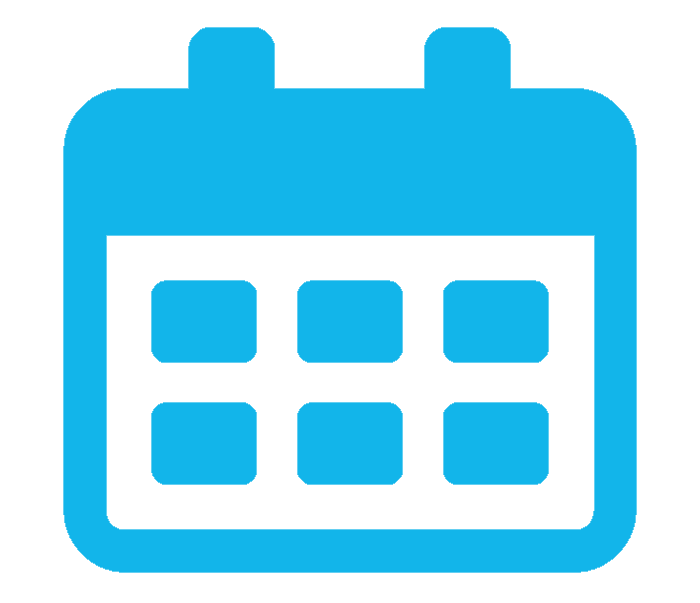
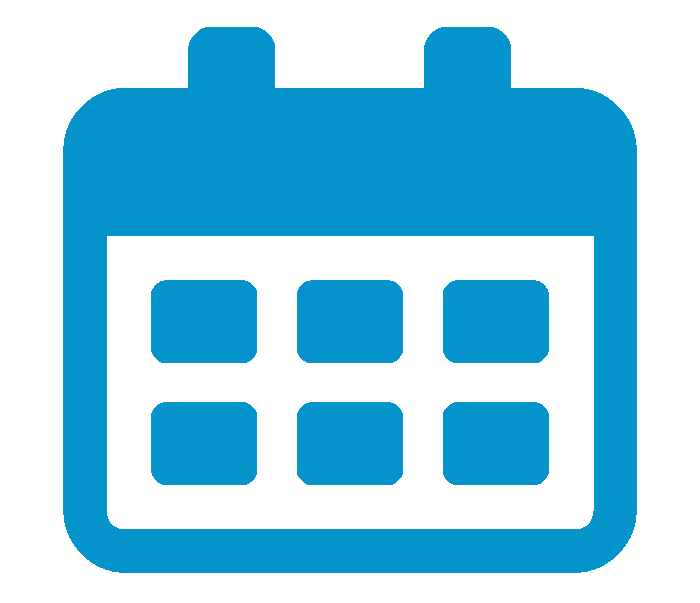
v4 UI updates

diff --git a/client/index.html b/client/index.html
@@ -8,6 +8,8 @@
     <!-- CS Fonts -->
     <link href="https://fonts.googleapis.com/css2?family=Raleway:ital,wght@0,400;0,900;1,400;1,900&display=swap"
         rel="stylesheet">
+    <link href="https://fonts.googleapis.com/css2?family=Asap Condensed:ital,wght@0,400;0,900;1,400;1,900&display=swap"
+    rel="stylesheet">
     <link rel="stylesheet" href="style.css">
     <link rel="icon" href="../assets/favicon.png" type="image/x-icon">
 </head>
@@ -15,21 +17,21 @@
 <body>
     <form name="submitToGoogleSheet" id="formInput">
         <div class="gridContainer">
-            <div class="pageHeader">
-                <!-- <h1 style="font-size:40px; display: inline-block;">30 Day Target Move-In Date Calculator</h1> -->
+            <!-- <div class="pageHeader">
+                <h1 style="font-size:40px; display: inline-block;">30 Day Target Move-In Date Calculator</h1>
                 <p style="font-size: 16px;"> Setting a Target Move-In Date Goal can bring new focus and clarity to the way that you work with clients every week. 
                     At the end of your case conferencing meeting, consistently check how many target move-in dates your team has set for the next 30 days. Are you on track to 
-                    house enough people to reduce your by-name list? This goal calculator will help you know.
+                    house enough people to reduce your actively homeless number? This goal calculator will help you know.
                 </p>
                 <p style="background-color: rgba(184, 184, 184, 0.178); padding: 1%;">
-                    <b>HOW TO USE THIS TOOL: </b>It takes a lot of work to reduce your by-name list. This tool helps you focus on just one part, your housing placements. 
+                    <b>HOW TO USE THIS TOOL: </b>It takes a lot of work to reduce your actively homeless number. This tool helps you focus on just one part, your housing placements. 
                     Use the <a href="https://docs.google.com/document/d/11QEc_Yd7us2gqvrVhqg1Y2LvnraLX3j8FyFzgTvXo3s/edit">Target Move-In Dates Guide</a> along with this tool to ensure that your team is on track to house people at your desired rate.
                     <br><br>
                     This tool helps your case conferencing team set target move-in dates so that you can house people faster; it is not a forecasting tool. 
                     If your inflow or outflow rates change over the coming months, your actively homeless count will fluctuate. Give attention to your entire system! 
-                    Reducing your by-name list requires accelerating your housing placements, yes, and also taking action to intentionally reduce people entering your system.
+                    Reducing your actively homeless number requires accelerating your housing placements, yes, and also taking action to intentionally reduce people entering your system.
                 </p>
-            </div>
+            </div> -->
             <div class="goalInputs">
                 <div class="communityDetails">
                     <h2>COMMUNITY & POPULATION</h2>
@@ -128,11 +130,11 @@
                 <p style="display: none; font-size: 24px; padding: 2% 10%; text-align: left;" id="goalMet"></p>
                 <div style="display: none;" id="goal">
                     <p id="newGoal"> Increase monthly housing placements from<br>
-                        <span style="font-weight: bold; color:#12b5ea;" id="currentTargetHousingRate"></span> to
-                        <span style="font-weight: bold; color:#12b5ea;" id="goalTargetHousingRate"></span> people per month
+                        <span style="font-family: 'Asap Condensed'; font-weight: bold; color:#0494CB;" id="currentTargetHousingRate"></span> to
+                        <span style="font-family: 'Asap Condensed'; font-weight: bold; color:#0494CB;" id="goalTargetHousingRate"></span> people per month
                     </p>
                     <p style="font-size: 15px;" id="goalTargetExplanation">In order to reach your goal, you should set at least 
-                        <span style="font-weight: bold; color: #12b5ea;" id="goalTargetHousingRate2"></span> target move-in dates for the next 30 days.</span>
+                        <span style="font-family: 'Asap Condensed'; font-weight: bold; color: #0494CB;" id="goalTargetHousingRate2"></span> target move-in dates for the next 30 days.</span>
                     </p>
                     <p style="font-size: 15px; text-align: left;" id="goalAction"><b>How to take action: </b>Check your by-name list. Do you have enough target move-in dates set for this month? 
                         If not, go back through the list with an open mind and look for creative ideas to move some clients through your housing process faster.
@@ -146,67 +148,67 @@
                 </div>
                 <div class="paramNumMonths">
                     <img src="../assets/noun_month_3202614.png">
-                    <p id="paramNumMonths" style="font-size: 30px; font-weight: bold; color: #12b5ea; margin: 0%;"></p>
-                    <p style="color: #12b5ea; margin-top: 0%;">month(s) to reach your target</p>
+                    <p id="paramNumMonths" style="font-size: 30px; margin: 0%;"></p>
+                    <p style="margin-top: 0%;">month(s) to reach your target</p>
                 </div>
                 <div class="paramTargetNetChange">
                     <img src="../assets/noun_people_3457286.png">
-                    <p id="paramTargetNetChange" style="font-size: 30px; font-weight: bold; color: #12b5ea; margin: 0%;"></p>
-                    <p style="color: #12b5ea; margin-top: 0%;">person reduction</p>
+                    <p id="paramTargetNetChange" style="font-size: 30px; margin: 0%;"></p>
+                    <p style="margin-top: 0%;">person reduction</p>
                 </div>
                 <div class="explanation1">
                     <p >To reduce your active list by
-                        <span style="font-size: 20px; font-weight:bold; color:#12b5ea;" id="explanationTargetNetChange"></span> people in 
-                        <span style="font-size: 20px; font-weight:bold; color:#12b5ea;" id="explanationNumMonths"></span> month(s), you will need to reduce your Actively Homeless Number by 
-                        <span style="font-size: 20px; font-weight:bold; color:#12b5ea;" id="explanationTargetNetChangeRate"></span> people per month. 
+                        <span style="font-weight:bold; color:#0494CB;" id="explanationTargetNetChange"></span> people in 
+                        <span style="font-weight:bold; color:#0494CB;" id="explanationNumMonths"></span> month(s), you will need to reduce your Actively Homeless Number by 
+                        <span style="font-weight:bold; color:#0494CB;" id="explanationTargetNetChangeRate"></span> people per month. 
                     </p>
-                    <p style="color:#12b5ea;">
-                        <span style="font-size: 20px; font-weight:bold;" id="equationTargetNetChange"></span> people / 
-                        <span style="font-size: 20px; font-weight:bold;" id="equationNumMonths"></span> month(s) = 
-                        <span style="font-size: 20px; font-weight:bold;" id="equationTargetNetChangeRate"></span> person monthly reduction
+                    <p style="color:#0494CB;">
+                        <span style="font-weight:bold;" id="equationTargetNetChange"></span> people / 
+                        <span style="font-weight:bold;" id="equationNumMonths"></span> month(s) = 
+                        <span style="font-weight:bold;" id="equationTargetNetChangeRate"></span> person monthly reduction
                     </p>
                 </div>
                 <div class="paramAvgInflow">
                     <img src="../assets/noun_homeless_3418188.png">
-                    <p id="paramAvgInflow" style="font-size: 30px; font-weight: bold; color: #12b5ea; margin: 0%;"></p>
-                    <p style="color: #12b5ea; margin-top: 0%;">average total monthly inflow</p>
+                    <p id="paramAvgInflow" style="font-size: 30px; margin: 0%;"></p>
+                    <p style="margin-top: 0%;">average total monthly inflow</p>
                 </div>
                 <div class="explanation2" id="explanation2">
                     <p>Assuming 
-                        <span style="font-size: 20px; font-weight:bold; color: #12b5ea;" id="explanationAvgInflow"></span> people join your list each month, you will need  
-                        <span style="font-size: 20px; font-weight:bold; color:#12b5ea" id="explanationTargetOutflowRate"></span> people to move off your list each month. 
+                        <span style="font-weight:bold; color: #0494CB;" id="explanationAvgInflow"></span> people join your list each month, you will need  
+                        <span style="font-weight:bold; color:#0494CB;" id="explanationTargetOutflowRate"></span> people to move off your list each month. 
                     </p>
-                    <p style="color:#12b5ea;">
-                        <span style="font-size: 20px; font-weight:bold;" id="equationTargetNetChangeRate2"></span> person monthly reduction + 
-                        <span style="font-size: 20px; font-weight:bold;" id="equationAvgInflow"></span> person monthly inflow = 
-                        <span style="font-size: 20px; font-weight:bold;" id="equationTargetOutflowRate"></span> person monthly outflow needed
+                    <p style="color:#0494CB;">
+                        <span style="font-weight:bold;" id="equationTargetNetChangeRate2"></span> person monthly reduction + 
+                        <span style="font-weight:bold;" id="equationAvgInflow"></span> person monthly inflow = 
+                        <span style="font-weight:bold;" id="equationTargetOutflowRate"></span> person monthly outflow needed
                     </p>
                 </div>
                 <div class="paramAvgOutflow">
                     <img src="../assets/noun_exit_2590544.png">
-                    <p id="paramAvgOutflow" style="font-size: 30px; font-weight: bold; color: #12b5ea; margin: 0%;"></p>
-                    <p style="color: #12b5ea; margin-top: 0%;">average total monthly outflow</p>
+                    <p id="paramAvgOutflow" style="font-size: 30px; margin: 0%;"></p>
+                    <p style="margin-top: 0%;">average total monthly outflow</p>
                 </div>
                 <div class="paramAvgHoused">
                     <img src="../assets/noun_Home_680045.png">
-                    <p id="paramAvgHoused" style="font-size: 30px; font-weight: bold; color: #12b5ea; margin: 0%;"></p>
-                    <p style="color: #12b5ea; margin-top: 0%;">average monthly housing placements</p>
+                    <p id="paramAvgHoused" style="font-size: 30px; margin: 0%;"></p>
+                    <p style="margin-top: 0%;">average monthly housing placements</p>
                 </div>
                 <div class="explanation3" id="explanation3">
                     <p>Assuming 
-                        <span style="font-size: 20px; font-weight:bold; color: #12b5ea;" id="explanationAvgTotalOutflow"></span> people are currently moving off the list each month, 
-                        <span style="font-size: 20px; font-weight:bold; color: #12b5ea;" id="explanationAvgHoused"></span> due to moving into housing and 
-                        <span style="font-size: 20px; font-weight:bold; color: #12b5ea;" id="explanationOtherOutflow"></span> due to other outflow, you can increase your monthly housing placements to 
-                        <span style="font-size: 20px; font-weight:bold; color: #12b5ea;" id="explanationTargetHousingRate"></span> people per month to reach your goal. 
+                        <span style="font-weight:bold; color: #0494CB;" id="explanationAvgTotalOutflow"></span> people are currently moving off the list each month, 
+                        <span style="font-weight:bold; color: #0494CB;" id="explanationAvgHoused"></span> due to moving into housing and 
+                        <span style="font-weight:bold; color: #0494CB;" id="explanationOtherOutflow"></span> due to other outflow, you can increase your monthly housing placements to 
+                        <span style="font-weight:bold; color: #0494CB;" id="explanationTargetHousingRate"></span> people per month to reach your goal. 
                     </p>
-                    <p style="color:#12b5ea;">
-                        <span style="font-size: 20px; font-weight: bold; color: #12b5ea;" id="equationAvgTotalOutflow"></span> person total outflow - 
-                        <span style="font-size: 20px; font-weight: bold; color: #12b5ea;" id="equationAvgHoused"></span> current monthly housing placements = 
-                        <span style="font-size: 20px; font-weight: bold; color: #12b5ea" id="equationOtherOutflow";></span> person monthly other outflow
+                    <p style="color:#0494CB;">
+                        <span style="font-weight: bold;" id="equationAvgTotalOutflow"></span> person total outflow - 
+                        <span style="font-weight: bold;" id="equationAvgHoused"></span> current monthly housing placements = 
+                        <span style="font-weight: bold;" id="equationOtherOutflow";></span> person monthly other outflow
                         <br><br>
-                        <span style="font-size: 20px; font-weight:bold; color:#12b5ea;" id="equationTargetOutflowRate2"></span> person monthly outflow needed - 
-                        <span style="font-size: 20px; font-weight:bold; color: #12b5ea;" id="equationOtherOutflow2"></span> person monthly other outflow = 
-                        <span style="font-size: 20px; font-weight:bold; color:#12b5ea;" id="equationTargetHousingRate"></span> monthly housing placements needed
+                        <span style="font-weight:bold;" id="equationTargetOutflowRate2"></span> person monthly outflow needed - 
+                        <span style="font-weight:bold;" id="equationOtherOutflow2"></span> person monthly other outflow = 
+                        <span style="font-weight:bold;" id="equationTargetHousingRate"></span> monthly housing placements needed
                     </p>
                 </div>
                 <div class="note" style="font-size: 15px;">

diff --git a/client/style.css b/client/style.css
@@ -14,6 +14,7 @@ body {
   margin: 1% 5% 5% 2%;
 }
 h2 {
+  font-family: "Asap Condensed";
   font-size: 26px;
   font-weight: 800;
 }
@@ -134,7 +135,7 @@ h2 {
     grid-row: 12;
     font-size: 26px;
     text-align: center;
-    border: thick solid #12b5ea;
+    border: thick solid #0494CB;
     margin-bottom: 3%;
   }
   .goalExplanation {
@@ -148,7 +149,10 @@ h2 {
     text-align: center;
   }
   .paramNumMonths, .paramTargetNetChange, .paramAvgInflow, .paramAvgOutflow, .paramAvgHoused {
+    font-family: "Asap Condensed";
     text-align: center;
+    font-weight: bold; 
+    color: #0494CB; 
     padding: 0% 3%;
   }
   .explanation1, .explanation2, .explanation3 {
@@ -172,6 +176,7 @@ h2 {
   .paramAvgInflow {
     grid-column: 4;
     grid-row: 2;
+    padding-right: 5%;
     border-right: thin solid rgb(209, 209, 209);
   }
   .explanation2 {
@@ -201,7 +206,7 @@ h2 {
     grid-row: 14;
   }
 img {
-  width: 40%;
+  height: 80px;
 }
 .helptext {
   font-size: 14px;
@@ -210,7 +215,7 @@ img {
   margin: 1%;
 }
 input {
-  width: 80%;
+  width: 90%;
 }
 input:hover {
   border: 2px solid #ffd2e6;
@@ -228,7 +233,7 @@ input, select {
   border: 2px solid #a50a51;
   font-family: "Raleway";
   font-weight: 900;
-  font-size: 16px;
+  font-size: 15px;
   color: grey;
 }
 label {
